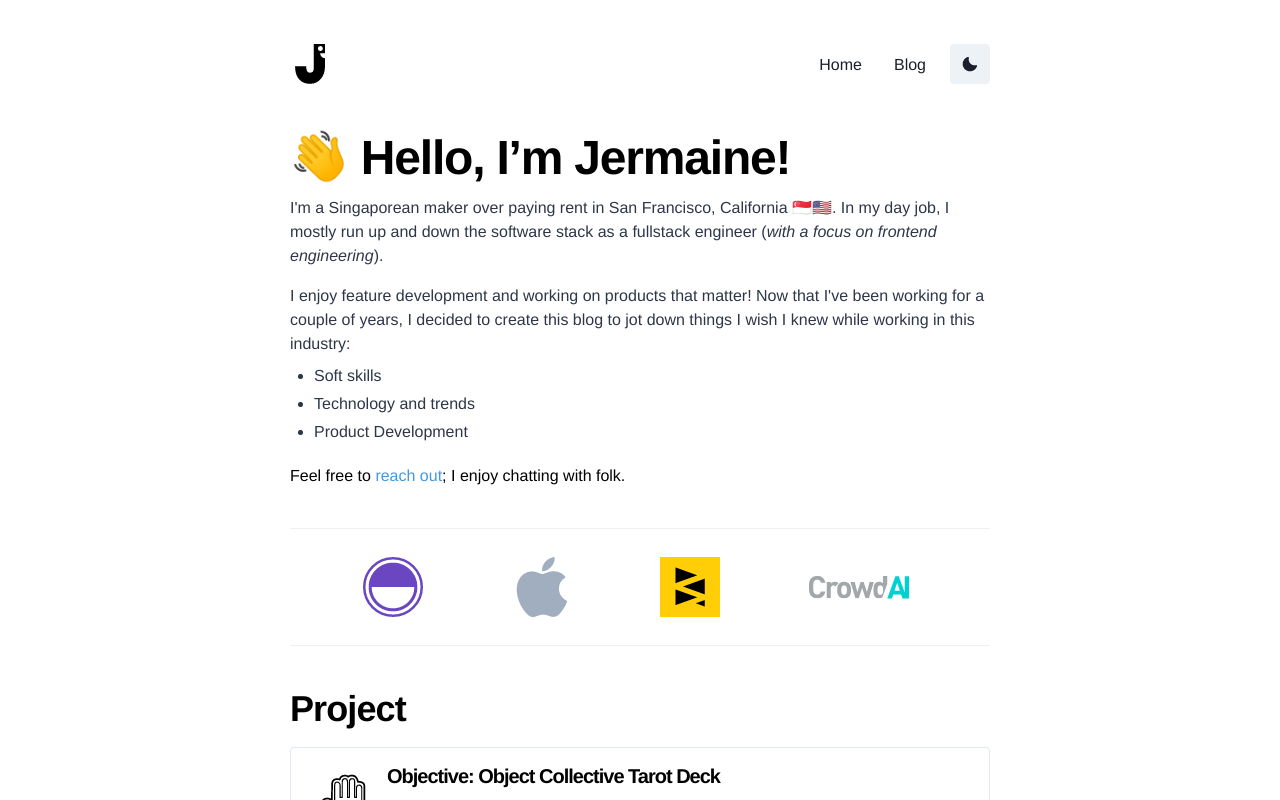
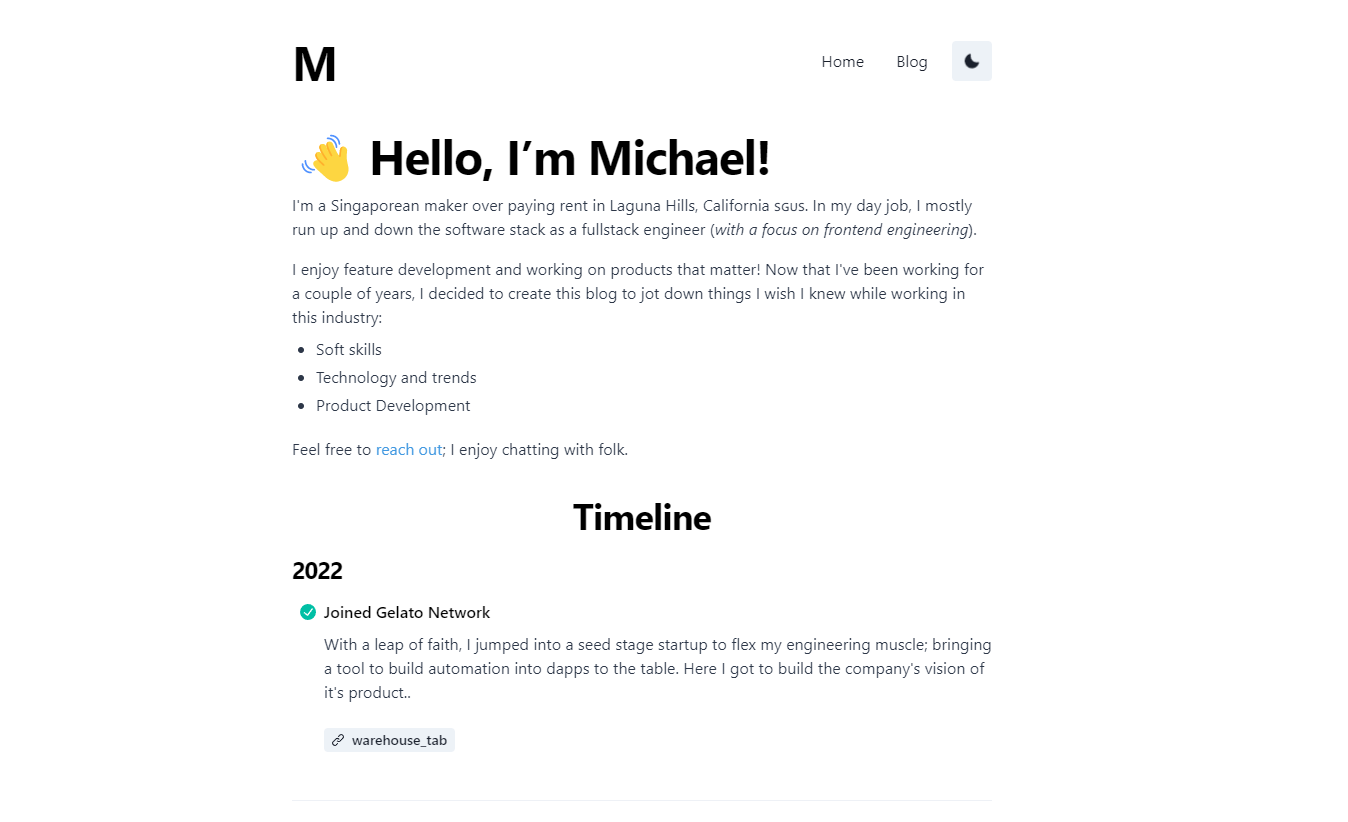
update my timelines

diff --git a/pages/index.js b/pages/index.js
@@ -70,13 +70,12 @@ const Index = () => {
             as="h1"
             size="2xl"
           >
-            👋 Hello, I’m Jermaine!
+            👋 Hello, I’m Michael!
           </Heading>
           <Text mb={4} color={secondaryTextColor[colorMode]}>
-            I'm a Singaporean maker over paying rent in San Francisco,
-            California 🇸🇬🇺🇸. In my day job, I mostly run up and down the
-            software stack as a fullstack engineer (
-            <i>with a focus on frontend engineering</i>).
+            I'm a Singaporean maker over paying rent in Laguna Hills, California
+            🇸🇬🇺🇸. In my day job, I mostly run up and down the software stack as
+            a fullstack engineer (<i>with a focus on frontend engineering</i>).
           </Text>
           <Text mb={4} color={secondaryTextColor[colorMode]}>
             I enjoy feature development and working on products that matter! Now
@@ -99,7 +98,7 @@ const Index = () => {
             Feel free to{' '}
             <Link
               color={'blue.400'}
-              href="mailto:jermainezhimin@gmail.com"
+              href="mailto:solomon226@hotmail.com"
               title="Email"
               isExternal
             >
@@ -108,65 +107,65 @@ const Index = () => {
             ; I enjoy chatting with folk.
           </Text>
         </Flex>
-        <Box w="100%">
-          <Divider />
-          <Flex w="100%" justifyContent="space-evenly" alignItems="center">
-            <Icon
-              aria-label={'periscopedata'}
-              name={'periscopedata'}
-              color={purpleColor[colorMode]}
-              size={['50px', '50px', '60px']}
-              ml={2}
-              mr={4}
-            />
-            <Icon
-              aria-label={'apple'}
-              name={'apple'}
-              color={grayColor[colorMode]}
-              size={['50px', '50px', '60px']}
-              ml={2}
-              mr={4}
-            />
-            <Icon
-              aria-label={'sisense'}
-              name={'sisense'}
-              size={['50px', '50px', '60px']}
-              ml={2}
-              mr={4}
-            />
-            <Icon
-              aria-label={'crowdai'}
-              name={'crowdai'}
-              size={['75px', '75px', '100px']}
-              ml={2}
-              mr={4}
-            />
-          </Flex>
-          <Divider />
-        </Box>
-        <Flex
-          flexDirection="column"
-          justifyContent="flex-start"
-          alignItems="flex-start"
-          maxWidth="700px"
-        >
-          <Heading
-            color={yellowTextColor[colorMode]}
-            letterSpacing="tight"
-            mb={4}
-            size="xl"
-            fontWeight={700}
-          >
-            Project
-          </Heading>
-          <ProjectCard
-            title="Objective: Object Collective Tarot Deck"
-            description="An illustration project to reimagine the Rider-Waite tarot deck as relatable items/animals in the 21st century"
-            href="https://www.kickstarter.com/projects/1988162704/objective-object-collective-tarot-deck"
-            icon="objective"
-            size="56px"
-          />
-        </Flex>
+        {/*<Box w="100%">*/}
+        {/*  <Divider />*/}
+        {/*  <Flex w="100%" justifyContent="space-evenly" alignItems="center">*/}
+        {/*    <Icon*/}
+        {/*      aria-label={'periscopedata'}*/}
+        {/*      name={'periscopedata'}*/}
+        {/*      color={purpleColor[colorMode]}*/}
+        {/*      size={['50px', '50px', '60px']}*/}
+        {/*      ml={2}*/}
+        {/*      mr={4}*/}
+        {/*    />*/}
+        {/*    <Icon*/}
+        {/*      aria-label={'apple'}*/}
+        {/*      name={'apple'}*/}
+        {/*      color={grayColor[colorMode]}*/}
+        {/*      size={['50px', '50px', '60px']}*/}
+        {/*      ml={2}*/}
+        {/*      mr={4}*/}
+        {/*    />*/}
+        {/*    <Icon*/}
+        {/*      aria-label={'sisense'}*/}
+        {/*      name={'sisense'}*/}
+        {/*      size={['50px', '50px', '60px']}*/}
+        {/*      ml={2}*/}
+        {/*      mr={4}*/}
+        {/*    />*/}
+        {/*    <Icon*/}
+        {/*      aria-label={'crowdai'}*/}
+        {/*      name={'crowdai'}*/}
+        {/*      size={['75px', '75px', '100px']}*/}
+        {/*      ml={2}*/}
+        {/*      mr={4}*/}
+        {/*    />*/}
+        {/*  </Flex>*/}
+        {/*  <Divider />*/}
+        {/*</Box>*/}
+        {/*<Flex*/}
+        {/*  flexDirection="column"*/}
+        {/*  justifyContent="flex-start"*/}
+        {/*  alignItems="flex-start"*/}
+        {/*  maxWidth="700px"*/}
+        {/*>*/}
+        {/*  <Heading*/}
+        {/*    color={yellowTextColor[colorMode]}*/}
+        {/*    letterSpacing="tight"*/}
+        {/*    mb={4}*/}
+        {/*    size="xl"*/}
+        {/*    fontWeight={700}*/}
+        {/*  >*/}
+        {/*    Project*/}
+        {/*  </Heading>*/}
+        {/*  <ProjectCard*/}
+        {/*    title="Objective: Object Collective Tarot Deck"*/}
+        {/*    description="An illustration project to reimagine the Rider-Waite tarot deck as relatable items/animals in the 21st century"*/}
+        {/*    href="https://www.kickstarter.com/projects/1988162704/objective-object-collective-tarot-deck"*/}
+        {/*    icon="objective"*/}
+        {/*    size="56px"*/}
+        {/*  />*/}
+        {/*</Flex>*/}
 
         <Flex
           flexDirection="column"
@@ -186,45 +185,60 @@ const Index = () => {
           </Heading>
           <Timeline
             activitiesByYear={{
-              '2019': [
+              '2022': [
                 {
-                  title: 'Joined CrowdAI',
+                  title: 'Joined Gelato Network',
                   description:
-                    "With a leap of faith, I jumped into a seed stage startup to flex my engineering muscle; bringing frontend engineering to the table. Here I got to build the company's vision of it's product from the ground up.",
-                },
-              ],
-              '2018': [
-                {
-                  title: 'Joined Sisense',
-                  description:
-                    'In May 2019, Periscope Data signed a definitive agreement to merge with Sisense. Having front row seats to a company merger is SCAR-Y, I got to build the integrated product!',
+                    "With a leap of faith, I jumped into a seed stage startup to flex my engineering muscle; bringing a tool to build automation into dapps to the table. Here I got to build the company's vision of it's product..",
                   tags: {
                     warehouse_tab:
-                      'https://www.youtube.com/watch?v=s_4lK-MXhsk',
+                      'https://www.youtube.com/channel/UCBk9gXYKOoLHTQxpcnZkBwQ',
+                  },
+                },
+              ],
+              '2021': [
+                {
+                  title: 'Joined Onessus',
+                  description:
+                    'In the end of 2021, I jumped into a dApp Development Studio; brought full-stack engineering to the table. Here I got to transfer novel concept to reality.',
+                  tags: {
+                    warehouse_tab:
+                      'https://www.youtube.com/channel/UCyZaZqRgYFdrgVFoB-qT-ag',
                   },
                 },
                 {
-                  title: 'Joined Periscope Data',
+                  title: 'Joined Wallfair.io',
                   description:
-                    'One of my best experiences in the industry! Also, I got to build really cool technology to run python in the web.',
+                    'In Sep 2021, Took my second frontend engineering to a decentralized social entertainment industry: Here I got to build the frontend pages of social events.',
                   tags: {
-                    custom_modules:
-                      'https://dtdocs.sisense.com/article/custom-modules',
-                    r_and_python_integration:
-                      'https://dtdocs.sisense.com/article/r-and-python',
-                    summary_stats:
-                      'https://dtdocs.sisense.com/article/statistics',
+                    warehouse_tab:
+                      'https://www.youtube.com/channel/UCqBlRN4MA8N2-SNvM5V52Eg',
                   },
+                },
+                {
+                  title: 'Joined KodaDot',
+                  description:
+                    'Took my first frontend engineering to blockchain space; Here I got to develop the frontend of interoperable NFT marketplace on Kusama & Polkadot.',
+                  tags: {
+                    warehouse_tab:
+                      'https://www.youtube.com/channel/UCEULduld5NrqOL49k1KVjoA',
+                  },
+                },
+              ],
+              '2020': [
+                {
+                  title: 'Joined Snikpic',
+                  description: 'My career landed on more variety fields',
+                },
+              ],
+              '2019': [
+                {
+                  title: 'Joined Demoreel.com',
+                  description:
+                    'I started freelancing and experienced many sources and libraries.',
                 },
               ],
               '2016': [
-                {
-                  title: 'Joined Apple',
-                  description:
-                    'My first job out of college working in the Content Delivery Network(CDN) team. Learning to work in a software team was rough!',
-                },
-              ],
-              '2015': [
                 {
                   title: 'Switch to Computer Engineering Major',
                   description:
@@ -232,16 +246,6 @@ const Index = () => {
                 },
               ],
               '2014': [
-                {
-                  title: 'Join Game Innovation Program',
-                  description:
-                    'My first interaction with creating games as a game designer intern. It was alot of work and butting of heads before producing Skyward.',
-                  tags: {
-                    skyward: 'https://www.youtube.com/watch?v=s_4lK-MXhsk',
-                  },
-                },
-              ],
-              '2013': [
                 {
                   title: 'Took my first CS elective',
                   description:

diff --git a/components/layout.js b/components/layout.js
@@ -8,12 +8,12 @@ import {
   Flex,
   Box,
   IconButton,
-  Icon,
+  Heading,
 } from '@chakra-ui/core'
 import Footer from './footer'
 
 const site = 'http://www.jermainecheng.com'
-const siteTitle = "Jermaine's Blog"
+const siteTitle = "Michael's Blog"
 const siteDescription =
   'Read articles about the magical field of software engineering'
 const sitePreview = '/images/preview.png'
@@ -25,7 +25,7 @@ const StickyNav = styled(Flex)`
   backdrop-filter: saturate(180%) blur(20px);
   transition: background-color 0.1 ease-in-out;
 `
-const MainIcon = styled(Icon)`
+const MainLogo = styled(Heading)`
   transition: color 0.25s;
   position: sticky;
   z-index: 10;
@@ -93,14 +93,13 @@ const Layout = ({ children }) => {
         mx={[8, 8, 'auto']}
       >
         <NextLink href="/" passHref>
-          <MainIcon
-            aria-label="Jermaine"
-            name="jermaine"
-            size="40px"
+          <MainLogo
             color={primarytextColor[colorMode]}
-            variant="ghost"
+            fontSize="5xl"
             cursor="pointer"
-          />
+          >
+            M
+          </MainLogo>
         </NextLink>
         <Box ml="auto">
           <NextLink href="/" passHref>

diff --git a/components/footer.js b/components/footer.js
@@ -25,7 +25,7 @@ const Footer = () => {
     <Flex flexDirection="column">
       <Flex justify="center" mb={4}>
         <Text>
-          Made with ❤ by Jermaine; Inspired by{' '}
+          Made with ❤ by Michael; Inspired by{' '}
           <Link
             color={'blue.400'}
             href="https://leerob.io"
@@ -51,7 +51,7 @@ const Footer = () => {
           />
         </Link>
         <Link
-          href="https://github.com/jermainezhimin"
+          href="https://github.com/michael-dev-0226"
           title="GitHub"
           isExternal
         >
@@ -64,7 +64,7 @@ const Footer = () => {
           />
         </Link>
         <Link
-          href="https://www.linkedin.com/in/jermaine-cheng/"
+          href="https://www.linkedin.com/in/michael-martinez-b3b986237/"
           title="LinkedIn"
           isExternal
         >
@@ -76,7 +76,7 @@ const Footer = () => {
             variant="ghost"
           />
         </Link>
-        <Link href="mailto:jermainezhimin@gmail.com" title="Email" isExternal>
+        <Link href="mailto:solomon226@hotmail.com" title="Email" isExternal>
           <IconButton
             aria-label="Email"
             icon="mail"

diff --git a/blogs/make-a-blog.md b/blogs/make-a-blog.md
@@ -1,6 +1,6 @@
 ---
-title: "👶 Birth of Jermainecheng.com"
-summary: "A rundown on how / why jermainecheng.com was built."
+title: "👶 Birth of Michael-martinez.me"
+summary: "A rundown on how / why Michael-martinez.me was built."
 date: "2020-06-14"
 ---
 
